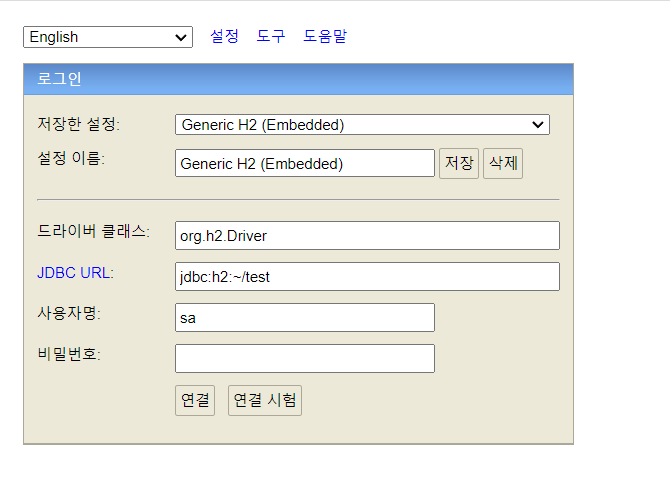
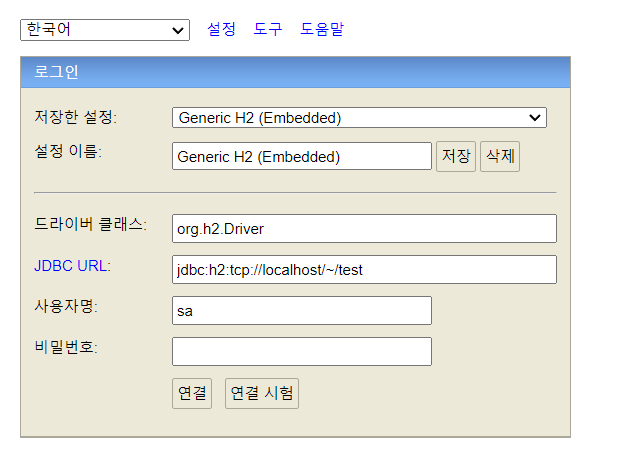
2021-12-19

diff --git a/content/blog/develop/backend/orm-jpa-basic/20211218-start-jpa.md b/content/blog/develop/backend/orm-jpa-basic/20211218-start-jpa.md
@@ -46,73 +46,55 @@ toc: true
 
 ### SpringBoot 프로젝트 생성
 
-![contact](/images/develop/backend/orm-jpa-basic/start-jpa/img-008.png)
 
-![contact](/images/develop/backend/orm-jpa-basic/start-jpa/img-010.png)
+![contact](/images/develop/backend/orm-jpa-basic/start-jpa/img-020.png)
 
-![contact](/images/develop/backend/orm-jpa-basic/start-jpa/img-011.png)
+![contact](/images/develop/backend/orm-jpa-basic/start-jpa/img-021.png)
+
+![contact](/images/develop/backend/orm-jpa-basic/start-jpa/img-022.png)
+
 
 #### pom.xml
 > hibernate와 h2database dependency 추가
 
+![contact](/images/develop/backend/orm-jpa-basic/start-jpa/img-023.png)
+
+![contact](/images/develop/backend/orm-jpa-basic/start-jpa/img-024.png)
+
+![contact](/images/develop/backend/orm-jpa-basic/start-jpa/img-025.png)
 
 ```
 <?xml version="1.0" encoding="UTF-8"?>
-<project xmlns="http://maven.apache.org/POM/4.0.0" xmlns:xsi="http://www.w3.org/2001/XMLSchema-instance"
-	xsi:schemaLocation="http://maven.apache.org/POM/4.0.0 https://maven.apache.org/xsd/maven-4.0.0.xsd">
-	<modelVersion>4.0.0</modelVersion>
-	<parent>
-		<groupId>org.springframework.boot</groupId>
-		<artifactId>spring-boot-starter-parent</artifactId>
-		<version>2.6.1</version>
-		<relativePath/> <!-- lookup parent from repository -->
-	</parent>
-	<groupId>jpa-basic</groupId>
-	<artifactId>ex1-hello-jpa</artifactId>
-	<version>1.0.0</version>
-	<name>ex1-hello-jpa</name>
-	<description>Demo project for Spring Boot</description>
-	<properties>
-		<java.version>1.8</java.version>
-	</properties>
-	<dependencies>
-		<dependency>
-			<groupId>org.springframework.boot</groupId>
-			<artifactId>spring-boot-starter</artifactId>
-		</dependency>
+<project xmlns="http://maven.apache.org/POM/4.0.0"
+         xmlns:xsi="http://www.w3.org/2001/XMLSchema-instance"
+         xsi:schemaLocation="http://maven.apache.org/POM/4.0.0 http://maven.apache.org/xsd/maven-4.0.0.xsd">
+    <modelVersion>4.0.0</modelVersion>
 
-		<dependency>
-			<groupId>org.springframework.boot</groupId>
-			<artifactId>spring-boot-starter-test</artifactId>
-			<scope>test</scope>
-		</dependency>
-		
-		<!-- JPA 하이버네이트 --> 
-		 <dependency> 
-			 <groupId>org.hibernate</groupId> 
-			 <artifactId>hibernate-entitymanager</artifactId> 
-			 <version>5.6.1.Final</version> 
-		 </dependency> 
-		 
-		 <!-- H2 데이터베이스 --> 
-		 <dependency> 
-			 <groupId>com.h2database</groupId> 
-			 <artifactId>h2</artifactId> 
-			 <version>1.4.202</version>  <!-- 설치한 H2 database 버전과 동일 -->
-		 </dependency>
-	</dependencies>
+    <groupId>jpa-basic</groupId>
+    <artifactId>ex1-hello-jpa</artifactId>
+    <version>1.0.0</version>
 
-	<build>
-		<plugins>
-			<plugin>
-				<groupId>org.springframework.boot</groupId>
-				<artifactId>spring-boot-maven-plugin</artifactId>
-			</plugin>
-		</plugins>
-	</build>
+    <properties>
+        <maven.compiler.source>8</maven.compiler.source>
+        <maven.compiler.target>8</maven.compiler.target>
+    </properties>
+
+    <dependencies>
+        <!-- JPA 하이버네이트 -->
+        <dependency>
+            <groupId>org.hibernate</groupId>
+            <artifactId>hibernate-entitymanager</artifactId>
+            <version>5.6.1.Final</version>
+        </dependency>
+        <!-- H2 데이터베이스 -->
+        <dependency>
+            <groupId>com.h2database</groupId>
+            <artifactId>h2</artifactId>
+            <version>1.4.200</version> <!-- 설치한 H2 database 버전과 동일, 202 버전 설치 하였지만 202 버전은 없어 200으로 설치 -->
+        </dependency>
+    </dependencies>
 
 </project>
-
 ```
 
 #### 스프링부트에 맞는 Dependency 버전확인
@@ -136,6 +118,8 @@ toc: true
 > - persistence-unit name으로 이름 지정
 > - javax.persistence로 시작: JPA 표준 속성
 > - hibernate로 시작: 하이버네이트 전용 속성
+
+
 
 #### persistence.xml
 
@@ -182,6 +166,273 @@ toc: true
 > - Oracle 10g : org.hibernate.dialect.Oracle10gDialect 
 > - MySQL : org.hibernate.dialect.MySQL5InnoDBDialect 
 > - 하이버네이트는 40가지 이상의 데이터베이스 방언 지원
+
+### JPA 구동 방식
+
+![contact](/images/develop/backend/orm-jpa-basic/start-jpa/img-019.png)
+
+
+
+### 실습 - JPA 동작 확인
+
+> - JpaMain 클래스 생성
+> - JPA 동작 확인
+
+
+![contact](/images/develop/backend/orm-jpa-basic/start-jpa/img-027.png)
+
+> persistence.xml 설정이 잘되어 있어야 Persistence. 했을때 뜸, PersistenceUnitName은 persistence.xml에 설정된 persistence-unit의 name
+
+```
+<?xml version="1.0" encoding="UTF-8"?>
+<persistence version="2.2"
+             xmlns="http://xmlns.jcp.org/xml/ns/persistence" xmlns:xsi="http://www.w3.org/2001/XMLSchema-instance"
+             xsi:schemaLocation="http://xmlns.jcp.org/xml/ns/persistence http://xmlns.jcp.org/xml/ns/persistence/persistence_2_2.xsd">
+    <persistence-unit name="hello">
+        <properties>
+            <!-- 필수 속성 -->
+            <property name="javax.persistence.jdbc.driver" value="org.h2.Driver"/>
+            <property name="javax.persistence.jdbc.user" value="sa"/>
+            <property name="javax.persistence.jdbc.password" value=""/>
+            <property name="javax.persistence.jdbc.url" value="jdbc:h2:tcp://localhost/~/test"/>
+            <property name="hibernate.dialect" value="org.hibernate.dialect.H2Dialect"/>
+
+            <!-- 옵션 -->
+            <property name="hibernate.show_sql" value="true"/>
+            <property name="hibernate.format_sql" value="true"/>
+            <property name="hibernate.use_sql_comments" value="true"/>
+            <!--<property name="hibernate.hbm2ddl.auto" value="create" />-->
+        </properties>
+    </persistence-unit>
+</persistence>
+```
+
+##### EntitiyManagerFactory 생성 후 실행
+
+![contact](/images/develop/backend/orm-jpa-basic/start-jpa/img-028.png)
+
+![contact](/images/develop/backend/orm-jpa-basic/start-jpa/img-029.png)
+
+```
+
+package hellojpa;
+
+import javax.persistence.EntityManager;
+import javax.persistence.EntityManagerFactory;
+import javax.persistence.Persistence;
+
+public class JpaMain {
+    //psvm 단축키로 생성 가능
+    public static void main(String[] args) {
+        EntityManagerFactory emf = Persistence.createEntityManagerFactory("hello");
+        EntityManager em = emf.createEntityManager();
+
+        // 실제 구현 위치
+	
+	   // 사용 후 닫아줘야한다 
+        em.close();	
+        emf.close(); 
+
+    }
+}
+
+```
+
+
+### 객체 테이블을 생성하고 매핑하기
+
+>- @Entity : JPA가 관리할 객체
+>- @Id : 데이터베이스 PK와 패밍
+
+#### Member.java
+```
+package hellojpa; 
+import javax.persistence.Entity; // 비슷한게 나오면  javax 
+import javax.persistence.Id; 
+
+@Entity  // 중요
+public class Member { 
+ @Id 
+ private Long id; 
+ private String name; 
+ //Getter, Setter … 
+} 
+create table Me
+```
+
+#### MEMBER CREATE SQL
+```
+create table Member ( 
+ id bigint not null, 
+ name varchar(255), 
+ primary key (id) 
+)
+```
+
+##### H2 Database에서 SQL 실행
+
+![contact](/images/develop/backend/orm-jpa-basic/start-jpa/img-030.png)
+
+
+##### Member.java 생성
+> main과 같은 경로에 생성
+
+![contact](/images/develop/backend/orm-jpa-basic/start-jpa/img-031.png)
+
+
+
+> Member.java 생성후 실행
+
+![contact](/images/develop/backend/orm-jpa-basic/start-jpa/img-032.png)
+
+
+> Id를 추가 하지 않았기 때문에 JPA에서 Id를 포함하라고 오류를 발생
+
+![contact](/images/develop/backend/orm-jpa-basic/start-jpa/img-033.png)
+
+```
+Exception in thread "main" javax.persistence.PersistenceException: org.hibernate.id.IdentifierGenerationException: ids for this class must be manually assigned before calling save(): hellojpa.Member
+	at org.hibernate.internal.ExceptionConverterImpl.convert(ExceptionConverterImpl.java:154)
+	at org.hibernate.internal.ExceptionConverterImpl.convert(ExceptionConverterImpl.java:181)
+	at org.hibernate.internal.ExceptionConverterImpl.convert(ExceptionConverterImpl.java:188)
+	at org.hibernate.internal.SessionImpl.firePersist(SessionImpl.java:807)
+	at org.hibernate.internal.SessionImpl.persist(SessionImpl.java:785)
+	at hellojpa.JpaMain.main(JpaMain.java:16)
+Caused by: org.hibernate.id.IdentifierGenerationException: ids for this class must be manually assigned before calling save(): hellojpa.Member
+	at org.hibernate.id.Assigned.generate(Assigned.java:33)
+	at org.hibernate.event.internal.AbstractSaveEventListener.saveWithGeneratedId(AbstractSaveEventListener.java:119)
+	at org.hibernate.event.internal.DefaultPersistEventListener.entityIsTransient(DefaultPersistEventListener.java:192)
+	at org.hibernate.event.internal.DefaultPersistEventListener.onPersist(DefaultPersistEventListener.java:135)
+	at org.hibernate.event.internal.DefaultPersistEventListener.onPersist(DefaultPersistEventListener.java:62)
+	at org.hibernate.internal.SessionImpl.firePersist(SessionImpl.java:800)
+	... 2 more
+
+```
+
+
+#### JpaMain
+> member.id, memeber.name 세팅
+
+```
+package hellojpa;
+
+import javax.persistence.EntityManager;
+import javax.persistence.EntityManagerFactory;
+import javax.persistence.Persistence;
+
+public class JpaMain {
+    //psvm 단축키로 생성 가능
+    public static void main(String[] args) {
+        EntityManagerFactory emf = Persistence.createEntityManagerFactory("hello");
+        EntityManager em = emf.createEntityManager();
+
+        Member member = new Member();
+
+        member.setId(1L);
+        member.setName("홍길동");
+
+        em.persist(member);
+
+        em.close();
+        emf.close();
+
+    }
+
+}
+
+```
+
+> 하지만 그래도 오류가 발생..
+
+```
+"C:\Program Files\Java\jdk1.8.0_271\bin\java.exe" "-javaagent:C:\Program Files\JetBrains\IntelliJ IDEA 2021.2.3\lib\idea_rt.jar=52200:C:\Program Files\JetBrains\IntelliJ IDEA 2021.2.3\bin" -Dfile.encoding=UTF-8 -classpath "C:\Program Files\Java\jdk1.8.0_271\jre\lib\charsets.jar;C:\Program Files\Java\jdk1.8.0_271\jre\lib\deploy.jar;C:\Program Files\Java\jdk1.8.0_271\jre\lib\ext\access-bridge-64.jar;C:\Program Files\Java\jdk1.8.0_271\jre\lib\ext\cldrdata.jar;C:\Program Files\Java\jdk1.8.0_271\jre\lib\ext\dnsns.jar;C:\Program Files\Java\jdk1.8.0_271\jre\lib\ext\jaccess.jar;C:\Program Files\Java\jdk1.8.0_271\jre\lib\ext\jfxrt.jar;C:\Program Files\Java\jdk1.8.0_271\jre\lib\ext\localedata.jar;C:\Program Files\Java\jdk1.8.0_271\jre\lib\ext\nashorn.jar;C:\Program Files\Java\jdk1.8.0_271\jre\lib\ext\sunec.jar;C:\Program Files\Java\jdk1.8.0_271\jre\lib\ext\sunjce_provider.jar;C:\Program Files\Java\jdk1.8.0_271\jre\lib\ext\sunmscapi.jar;C:\Program Files\Java\jdk1.8.0_271\jre\lib\ext\sunpkcs11.jar;C:\Program Files\Java\jdk1.8.0_271\jre\lib\ext\zipfs.jar;C:\Program Files\Java\jdk1.8.0_271\jre\lib\javaws.jar;C:\Program Files\Java\jdk1.8.0_271\jre\lib\jce.jar;C:\Program Files\Java\jdk1.8.0_271\jre\lib\jfr.jar;C:\Program Files\Java\jdk1.8.0_271\jre\lib\jfxswt.jar;C:\Program Files\Java\jdk1.8.0_271\jre\lib\jsse.jar;C:\Program Files\Java\jdk1.8.0_271\jre\lib\management-agent.jar;C:\Program Files\Java\jdk1.8.0_271\jre\lib\plugin.jar;C:\Program Files\Java\jdk1.8.0_271\jre\lib\resources.jar;C:\Program Files\Java\jdk1.8.0_271\jre\lib\rt.jar;C:\develop\Git\jpa-basic\ex1-hello-jpa\target\classes;C:\Users\offetuoso\.m2\repository\org\hibernate\hibernate-entitymanager\5.3.10.Final\hibernate-entitymanager-5.3.10.Final.jar;C:\Users\offetuoso\.m2\repository\org\jboss\logging\jboss-logging\3.3.2.Final\jboss-logging-3.3.2.Final.jar;C:\Users\offetuoso\.m2\repository\org\hibernate\hibernate-core\5.3.10.Final\hibernate-core-5.3.10.Final.jar;C:\Users\offetuoso\.m2\repository\org\javassist\javassist\3.23.2-GA\javassist-3.23.2-GA.jar;C:\Users\offetuoso\.m2\repository\antlr\antlr\2.7.7\antlr-2.7.7.jar;C:\Users\offetuoso\.m2\repository\org\jboss\jandex\2.0.5.Final\jandex-2.0.5.Final.jar;C:\Users\offetuoso\.m2\repository\com\fasterxml\classmate\1.3.4\classmate-1.3.4.jar;C:\Users\offetuoso\.m2\repository\javax\activation\javax.activation-api\1.2.0\javax.activation-api-1.2.0.jar;C:\Users\offetuoso\.m2\repository\org\dom4j\dom4j\2.1.1\dom4j-2.1.1.jar;C:\Users\offetuoso\.m2\repository\org\hibernate\common\hibernate-commons-annotations\5.0.4.Final\hibernate-commons-annotations-5.0.4.Final.jar;C:\Users\offetuoso\.m2\repository\javax\persistence\javax.persistence-api\2.2\javax.persistence-api-2.2.jar;C:\Users\offetuoso\.m2\repository\net\bytebuddy\byte-buddy\1.9.5\byte-buddy-1.9.5.jar;C:\Users\offetuoso\.m2\repository\org\jboss\spec\javax\transaction\jboss-transaction-api_1.2_spec\1.1.1.Final\jboss-transaction-api_1.2_spec-1.1.1.Final.jar;C:\Users\offetuoso\.m2\repository\com\h2database\h2\1.4.200\h2-1.4.200.jar" hellojpa.JpaMain
+12월 19, 2021 9:58:07 오후 org.hibernate.jpa.internal.util.LogHelper logPersistenceUnitInformation
+INFO: HHH000204: Processing PersistenceUnitInfo [
+	name: hello
+	...]
+12월 19, 2021 9:58:07 오후 org.hibernate.Version logVersion
+INFO: HHH000412: Hibernate Core {5.3.10.Final}
+12월 19, 2021 9:58:07 오후 org.hibernate.cfg.Environment <clinit>
+INFO: HHH000206: hibernate.properties not found
+12월 19, 2021 9:58:08 오후 org.hibernate.annotations.common.reflection.java.JavaReflectionManager <clinit>
+INFO: HCANN000001: Hibernate Commons Annotations {5.0.4.Final}
+12월 19, 2021 9:58:09 오후 org.hibernate.engine.jdbc.connections.internal.DriverManagerConnectionProviderImpl configure
+WARN: HHH10001002: Using Hibernate built-in connection pool (not for production use!)
+12월 19, 2021 9:58:09 오후 org.hibernate.engine.jdbc.connections.internal.DriverManagerConnectionProviderImpl buildCreator
+INFO: HHH10001005: using driver [org.h2.Driver] at URL [jdbc:h2:tcp://localhost/~/test]
+12월 19, 2021 9:58:09 오후 org.hibernate.engine.jdbc.connections.internal.DriverManagerConnectionProviderImpl buildCreator
+INFO: HHH10001001: Connection properties: {user=sa}
+12월 19, 2021 9:58:09 오후 org.hibernate.engine.jdbc.connections.internal.DriverManagerConnectionProviderImpl buildCreator
+INFO: HHH10001003: Autocommit mode: false
+12월 19, 2021 9:58:09 오후 org.hibernate.engine.jdbc.connections.internal.DriverManagerConnectionProviderImpl$PooledConnections <init>
+INFO: HHH000115: Hibernate connection pool size: 20 (min=1)
+12월 19, 2021 9:58:09 오후 org.hibernate.dialect.Dialect <init>
+INFO: HHH000400: Using dialect: org.hibernate.dialect.H2Dialect
+12월 19, 2021 9:58:10 오후 org.hibernate.engine.jdbc.connections.internal.DriverManagerConnectionProviderImpl stop
+INFO: HHH10001008: Cleaning up connection pool [jdbc:h2:tcp://localhost/~/test]
+
+Process finished with exit code 0
+
+```
+
+> JPA에서는 Transaction이 매우 중요한데, JPA의 모든 작업은 Transaction 안에서 이루어져야한다.
+
+
+
+#### EntityTransaction 추가
+
+```
+package hellojpa;
+
+import javax.persistence.EntityManager;
+import javax.persistence.EntityManagerFactory;
+import javax.persistence.EntityTransaction;
+import javax.persistence.Persistence;
+
+public class JpaMain {
+    //psvm 단축키로 생성 가능
+    public static void main(String[] args) {
+        EntityManagerFactory emf = Persistence.createEntityManagerFactory("hello");
+        EntityManager em = emf.createEntityManager();
+        EntityTransaction tx = em.getTransaction();
+
+        tx.begin(); // 트랜잭션 시작
+
+        Member member = new Member();
+
+        member.setId(1L);
+        member.setName("홍길동");
+
+        em.persist(member);
+
+        tx.commit(); // 트랜잭션 커밋
+
+        em.close();
+        emf.close();
+
+    }
+}
+
+```
+
+> Transaction을 추가후 실행
+
+![contact](/images/develop/backend/orm-jpa-basic/start-jpa/img-034.png)
+
+
+![contact](/images/develop/backend/orm-jpa-basic/start-jpa/img-035.png)
+
+> persistence.xml 옵션 설명
+
+
+```
+ 	<property name="hibernate.show_sql" value="true"/>  <!-- 실행 sql 로깅 -->
+	<property name="hibernate.format_sql" value="true"/>  <!-- 실행 sql 포메팅 -->
+	
+	<!-- /* insert hellojpa.Member */ JPA가 Inser 를 해서 이 쿼리가 나왔다는 것을 주석으로 설명 -->
+	<property name="hibernate.use_sql_comments" value="true"/>
+
+```
 
 ### 참고
 > - <a href="https://www.inflearn.com/course/ORM-JPA-Basic">자바 ORM 표준 JPA - 김영한</a>
